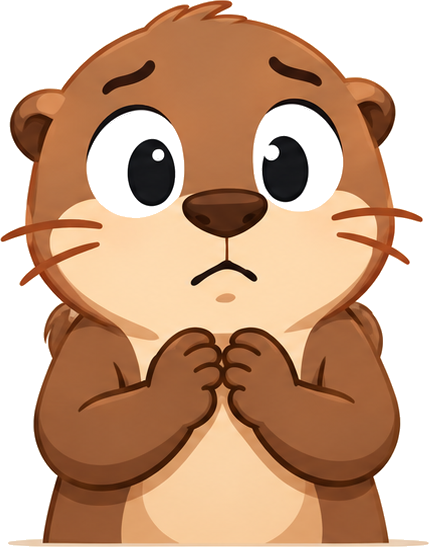
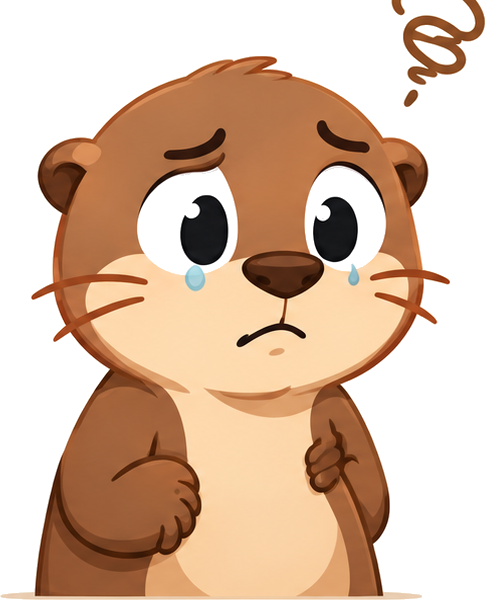
Fix: dos recortes de Ruti reportados por la usuaria
- curiosa.png: el recorte anterior cortaba la oreja izquierda de la
  nutria. Re-recortado desde la version en mejor calidad de la Biblia de
  expresiones, con margen de sobra a la izquierda.
- hambre.png: la usuaria pidio explicitamente la version CON lagrimas
  (pose 3 de Preocupacion), no la pose 1 sin lagrimas que se habia usado
  antes por la regla de "nunca mostrar a Ruti llorando" -- se prioriza
  su instruccion directa sobre esa regla general.

diff --git a/sw.js b/sw.js
@@ -1,4 +1,4 @@
-const CACHE = 'nutriruta-e231ce325b';
+const CACHE = 'nutriruta-eb6d0f3d16';
 const ASSETS = [
   './',
   './index.html',
